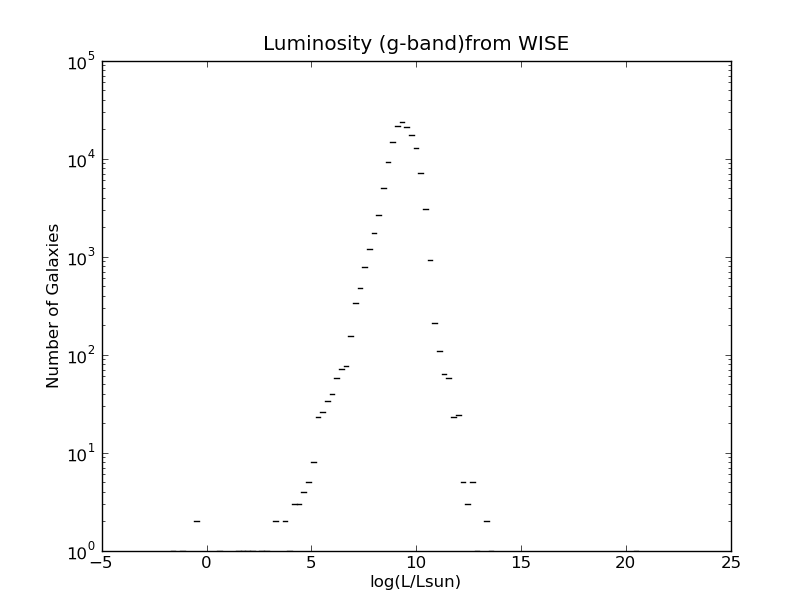
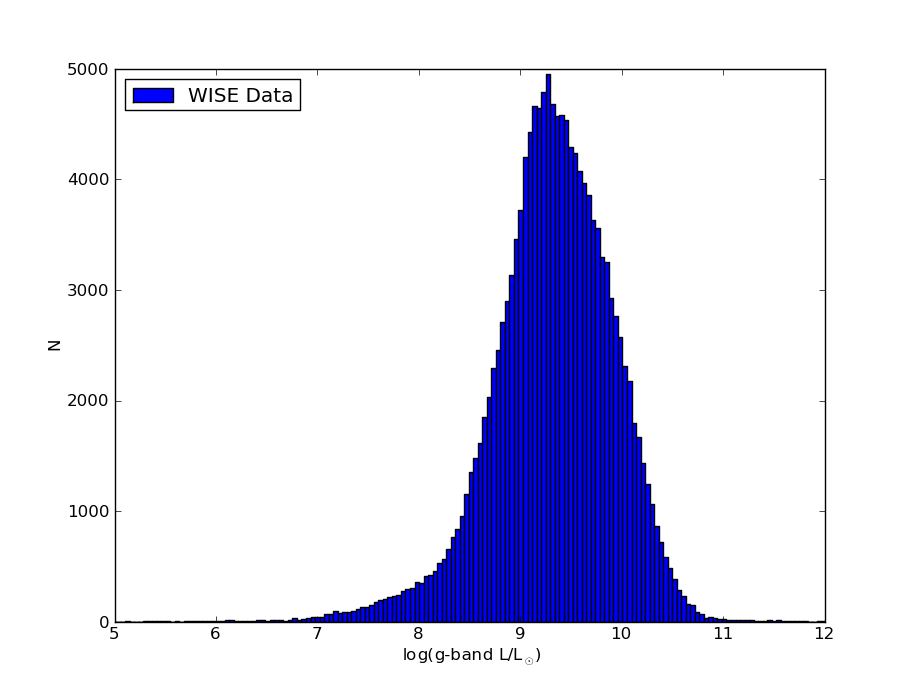
gbandlum

diff --git a/python/mf_classexample.py b/python/mf_classexample.py
@@ -21,12 +21,10 @@ class nasasloan:
         infile='/home/share/research/nsa/nsa_v0_1_2topcat.fits'
         #infile='/home/share/research/nsa/NSA_LCSregion.fits'
         self.ndat=atpy.Table(infile)
-    def absgbandmag(self):
+    def gbandabsmag(self):
         figure()
         hist(self.ndat.ABSMAG[:,3],bins=100)
-        title('Absolute Magnitude g-band (NSA_LCS Region) ')
-        xlim(xmax=-7)
-        xlim(xmin=-25) 
+        title('Absolute Magnitude( g-band)from WISE ') 
         ax=gca()
         ax.set_yscale('log')
         xlabel('Absolute g-band Magnitude')
@@ -40,15 +38,14 @@ class nasasloan:
         self.luminosity=(self.amag-4.83)/-2.5
         print 'this is a test '
         print self.luminosity
-        hist(self.luminosity,bins=100)
-        title('Luminosity (g-band)from WISE')
-        # xlim(xmax=-7)
-        # xlim(xmin=-25) 
-        ax=gca()
-        ax.set_yscale('log')
-        xlabel('log(L/Lsun)') 
-        ylabel('Number of Galaxies')
+        hist(self.luminosity,bins=500,)
+        # hist(self.luminosity,bins=100,)
+        # ax=gca()
+        # ax.set_yscale('log')
+        xlim(5,12)
+        legend(['WISE Data'], loc='upper left')
+        xlabel(' log(g-band L/L${_\odot}$)') 
+        ylabel('N')
         
 
 nsa=nasasloan()
-
